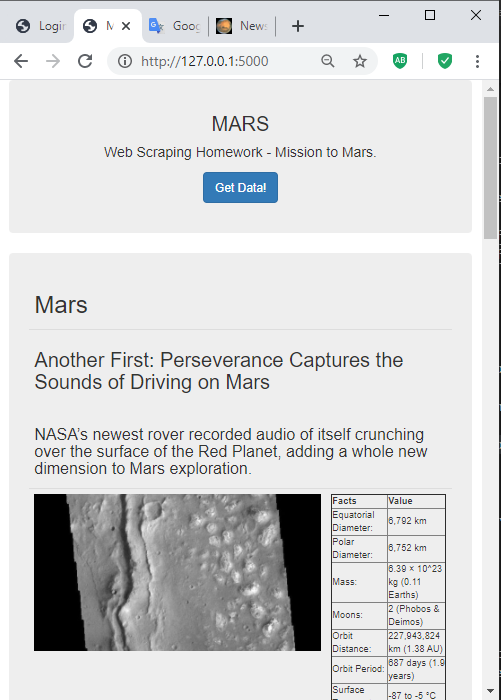
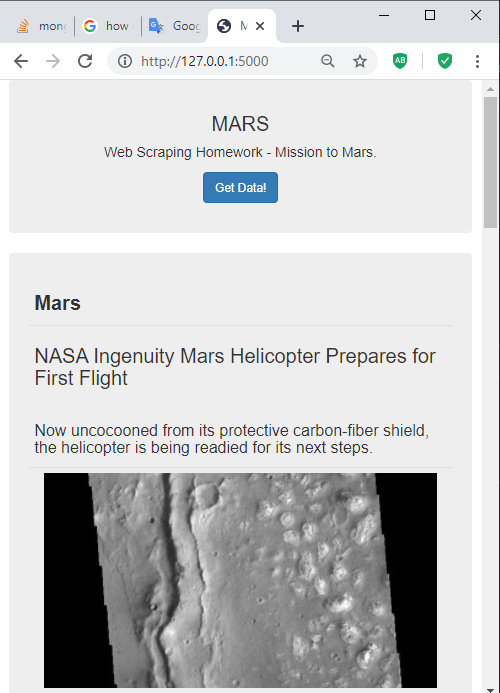
final application Screenshots

diff --git a/Missions_to_Mars/templates/index.html b/Missions_to_Mars/templates/index.html
@@ -32,7 +32,7 @@
               <table class="table">
                 <thead>
                     <th>
-                    <h1>Mars</h1>
+                    <h2><b>Mars</b></h2>
                     </th>
                 </thead>
                 <tbody>
@@ -43,18 +43,21 @@
                     </td>
                   </tr>
                   <tr>
-                    <td width="70">
-                      <img src={{mars.featured_image_url}} width="100%">
-                    </td>
-                    <td width="30%">
-                      {{mars.marts_facts | safe}}
+                    <td width="100" colspan="2">
+                      <div class="col-xs-12 col-sm-8 col-md-7">
+                        <img src={{mars.featured_image_url}} width="100%">
+                      </div>
+                      <div class="col-xs-12 col-sm-4 col-md-5"> <br>
+                        {{mars.marts_facts | safe}}
+                      </div>
                     </td>
                   </tr>
+                  <tr><td colspan="2"><hr style="height:2px;border-width:0;color:rgb(35, 11, 63);background-color:rgb(43, 15, 70)"></td></tr>
                   <tr>
                     <td colspan="2">
                       <div class="row">
                         <div class="col-xs-12 col-sm-3 col-md-6">
-                          <p><h3>Hemispheres of Mars</h3></p>
+                          <p><h3><b>Hemispheres of Mars</b></h3></p>
                         </div>
                       </div>
                       <div class="row">

diff --git a/Missions_to_Mars/scrape_mars.py b/Missions_to_Mars/scrape_mars.py
@@ -66,7 +66,7 @@ def Mars_Facts():
     marts = tables[0]
     marts_facts = marts.rename(columns={0: "Facts", 1: "Value"})
     # marts_facts.to_html('Mars_Facts.html', index=False, border=1)
-    marts_fact = (marts_facts.to_html(index=False, border=1)).replace('\n', '')
+    marts_fact = (marts_facts.to_html(index=False, border="1", classes="table")).replace('\n', '')
     #print(marts_fact);
     mars_scrap['marts_facts'] = marts_fact
     browser.quit()
